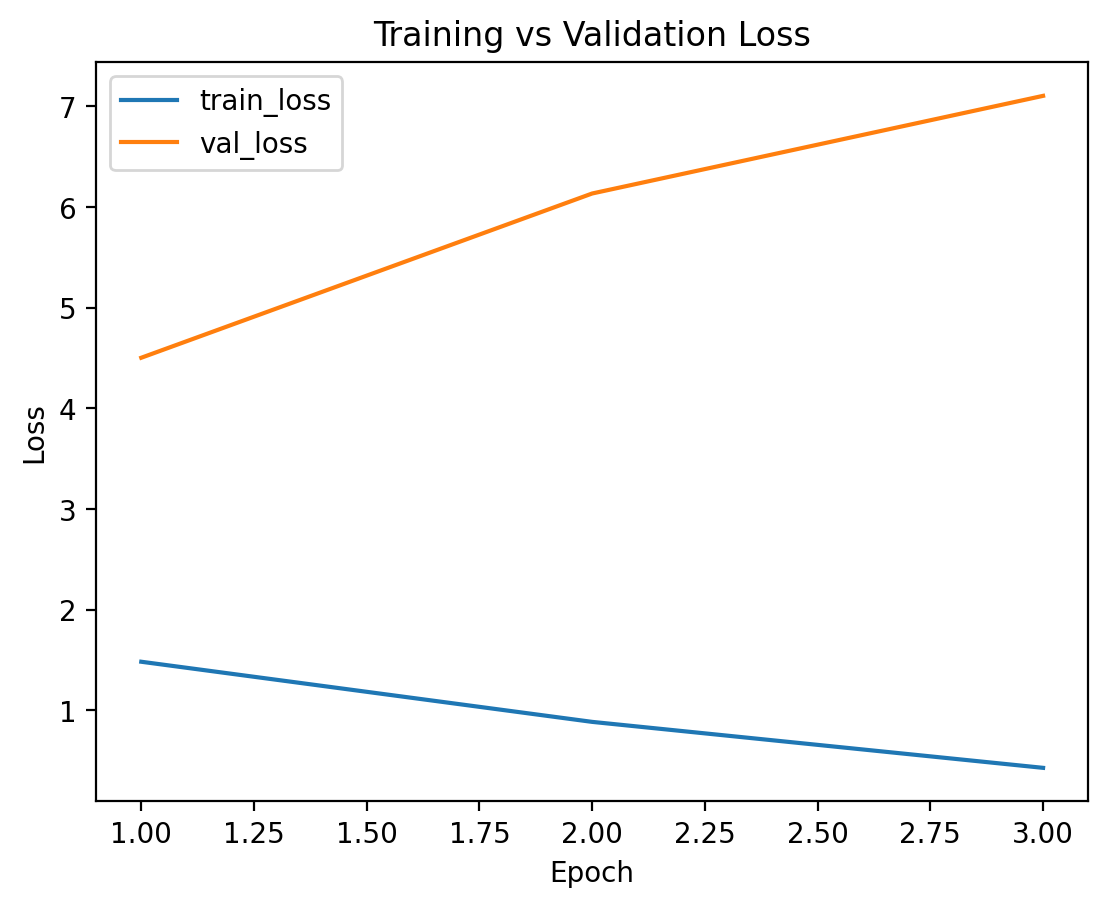
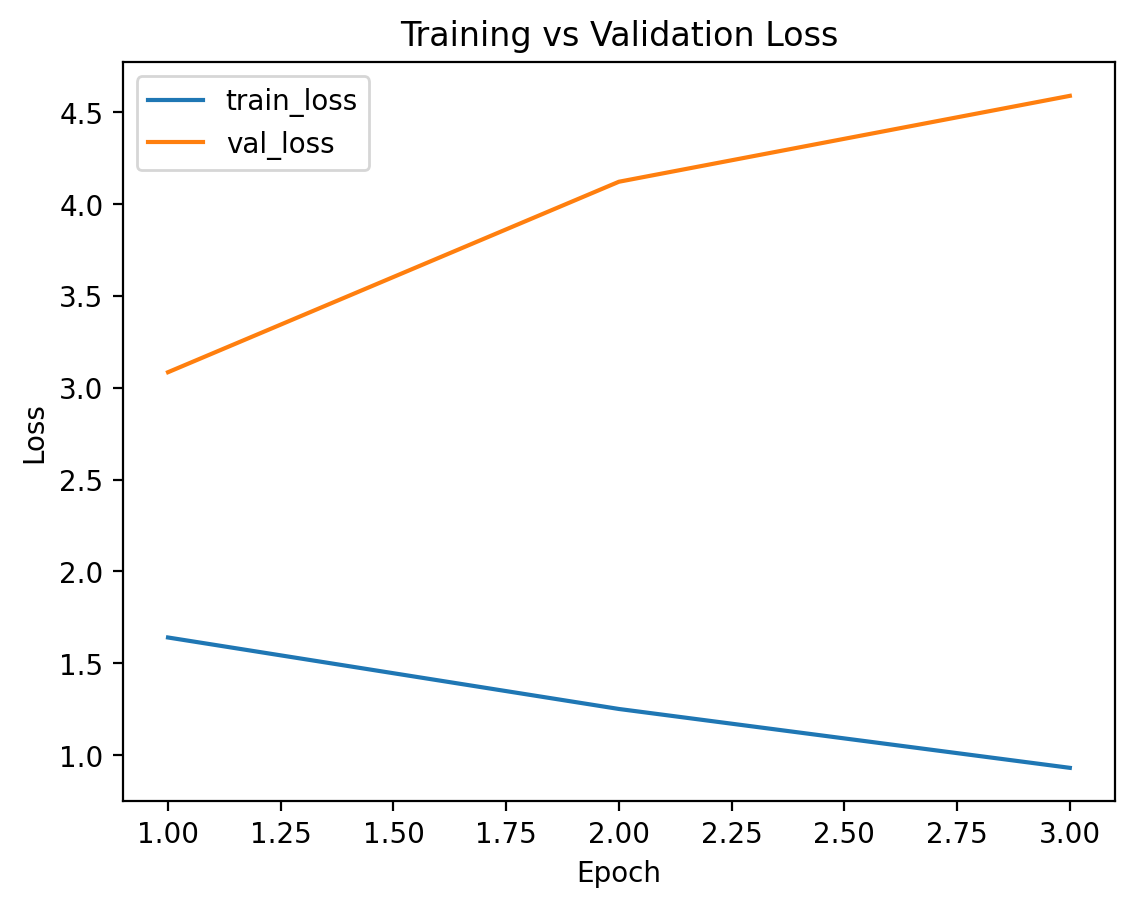
ran 7000 (train) and 1500 (test), epoch=25 for mobilenetv2

diff --git a/src/main.py b/src/main.py
@@ -45,24 +45,24 @@ def main():
     if args.command == "train":
         cfg = TrainConfig()
         cfg.data.num_workers = 0
-        cfg.device = "cpu"
+        cfg.device = "cuda"
 
         if args.mode == "debug":
-            cfg.data.max_per_class_train = 200
-            cfg.data.max_per_class_test = 50
+            cfg.data.max_per_class_train = 100
+            cfg.data.max_per_class_test = 10
             cfg.data.weighted_sampling = False
             cfg.epochs = 3
             cfg.model_name = "mobilenetv2"
             cfg.experiment_name = "debug_run"
 
         elif args.mode == "final":
-            cfg.data.max_per_class_train = None
-            cfg.data.max_per_class_test = None
-            cfg.data.weighted_sampling = True
+            cfg.data.max_per_class_train = 7000
+            cfg.data.max_per_class_test = 1500
+            cfg.data.weighted_sampling = False
             cfg.epochs = 25
-            cfg.model_name = "resnet50"
+            cfg.model_name = "mobilenetv2"
             cfg.freeze_backbone = False
-            cfg.experiment_name = "final_resnet50"
+            cfg.experiment_name = "final_mobilenetv2"
 
         out = train(cfg)
         print("\nTraining done:", out)

diff --git a/src/train/train.py b/src/train/train.py
@@ -21,7 +21,8 @@ from src.train.validate import validate
 @dataclass
 class TrainConfig:
     # data
-    data: DataConfig = DataConfig()
+    from dataclasses import field
+    data: DataConfig = field(default_factory=DataConfig)
 
     # model
     model_name: str = "resnet50"   # "resnet50" | "mobilenetv2" | "vgg16"
@@ -163,7 +164,7 @@ def train(cfg: Optional[TrainConfig] = None) -> Dict:
     # Optimizer + scheduler (monitor balanced accuracy)
     optimizer = torch.optim.Adam(model.parameters(), lr=cfg.lr, weight_decay=cfg.weight_decay)
     scheduler = torch.optim.lr_scheduler.ReduceLROnPlateau(
-        optimizer, mode="max", factor=0.5, patience=2, verbose=True
+        optimizer, mode="max", factor=0.5, patience=2
     )
 
     # Output dirs

diff --git a/src/models/model.py b/src/models/model.py
@@ -49,7 +49,8 @@ def build_vgg16(num_classes: int = 6, dropout: float = 0.5, freeze_backbone: boo
     if freeze_backbone:
         _freeze(model)
 
-    in_features = model.classifier[6].in_features
+    in_features = model.classifier[0].in_features
+
     model.classifier = nn.Sequential(
         nn.Linear(in_features, 512),
         nn.ReLU(True),
